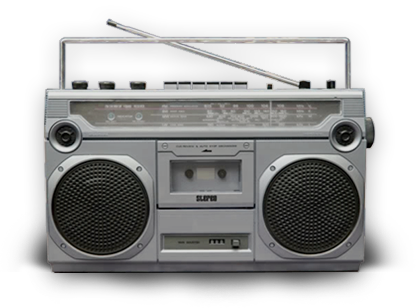
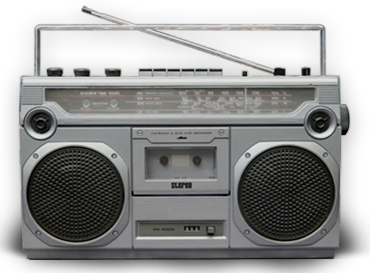
ghettoblaster : update skin

diff --git a/micromix-theme-1/css/ghettoblaster.css b/micromix-theme-1/css/ghettoblaster.css
@@ -1,22 +1,27 @@
 .ghettoblaster{
     position:fixed;
-    width:416px;
-    height:308px;
+    width:370px;
+    height:273px;
     background:url(../img/ghettoblaster.png) 0 0 no-repeat;
-    bottom:-36px;
+    bottom:-14px;
     right:0;
+    -webkit-transform-origin: right bottom;
+    -webkit-transition: -webkit-transform 200ms ease-in-out;
+}
+.ghettoblaster:hover {
+    -webkit-transform: scale(1.2);
 }
 .ghettoblaster.playing{
     /*background: green;*/
 }
 .ghettoblaster.positionabsolute{
     position: absolute;
-    bottom: 214px;
+    bottom: 236px;
 }
 .ghettoblaster .buttons-container {
     position: absolute;
-    left: 162px;
-    top: 214px;
+    left: 135px;
+    top: 201px;
 }
 .ghettoblaster .button {
     cursor: pointer;
@@ -24,37 +29,60 @@
     top: 0;
     width:18px;
     height:14px;
+    border-radius: 1px;
+    background-color: #adb2b5;
     background-image: url(../img/ghetto-buttons.png);
     background-repeat: no-repeat;
+    box-shadow:0 1px 2px rgba(0, 0, 0, 0.2), inset -1px -1px 3px rgba(0, 0, 0, 0.8);
+}
+.ghettoblaster .button.active {
+    box-shadow:inset 0 0 3px rgba(0, 0, 0, 0.8);
 }
 .ghettoblaster .button.prev{
-    background-position: 0 0;
+    background-position: 0 -1px;
     left: 0;
 }
+.ghettoblaster .button.prev.active{
+    background-position: 0 0;
+}
 .ghettoblaster .button.play{
-    background-position: -18px 0;
+    background-position: -18px -1px;
     left: 18px;
 }
+.ghettoblaster .button.play.active{
+    background-position: -18px 0;
+}
 .ghettoblaster .button.pause{
-    background-position: -36px 0;
+    background-position: -36px -1px;
     left: 36px;
 }
+.ghettoblaster .button.pause.active{
+    background-position: -36px 0;
+}
 .ghettoblaster .button.next{
-    background-position: -73px 0;
+    background-position: -73px -1px;
     left: 55px;
 }
+.ghettoblaster .button.next.active{
+    background-position: -73px 0;
+}
 .ghettoblaster .button.stop{
-    background-position: -55px 0;
+    background-position: -55px -1px;
     left: 73px;
+}
+.ghettoblaster .button.stop.active{
+    background-position: -55px 0;
 }
 .ghettoblaster-info{
     position: absolute;
     /*background: rgb(255, 0, 0);*/
     width: 227px;
-    top: 103px;
-    left: 93px;
+    top: 92px;
+    left: 70px;
 }
 .cassette {
+    display: none;/* temp */
+
     background: url(../img/cassette.png) 0 0 no-repeat;
     width: 150px;
     height: 100px;

diff --git a/micromix-theme-1/js/Managethesound.js b/micromix-theme-1/js/Managethesound.js
@@ -34,7 +34,7 @@ var Managethesound = function(){
     var _indexbyid = {};
     var _idbyindex = {};
 
-    var splayingclassname = 'playing';
+    var splayingclassname = 'active';
     var _sound = null;
 
     (function(){
@@ -84,13 +84,13 @@ var Managethesound = function(){
             togglepause();
         }
         else{
-            $ghettoblaster.addClass(splayingclassname);
+            $ghettoplay.addClass(splayingclassname);
             document.title = '♫ ' + document.title;
         }
     };
     var _onpause = function(){
         if (debug)console.info('_onpause');
-        $ghettoblaster.removeClass(splayingclassname);
+        $ghettoplay.removeClass(splayingclassname);
         document.title = document.title.replace('♫ ', '');
     };
     var _onresume = function(){

diff --git a/micromix-theme-1/sound.php b/micromix-theme-1/sound.php
@@ -29,7 +29,7 @@ $file_name = urldecode($file_name); // replace '%20' by blank spaces ' '
         <a href="<?= $mp3_link; ?>" class="wpaudio" data-postid="<?= the_ID(); ?>"><?= $file_name; ?></a>
     </p>
 
-    <p class="stats" style="clear: both; ">
+    <p class="stats" style="clear: both; display: none;">
         <em>
              <?= print_download($currentID, false); ?> total plays
             (<?= print_download($currentID, true); ?> plays this month) <br>
